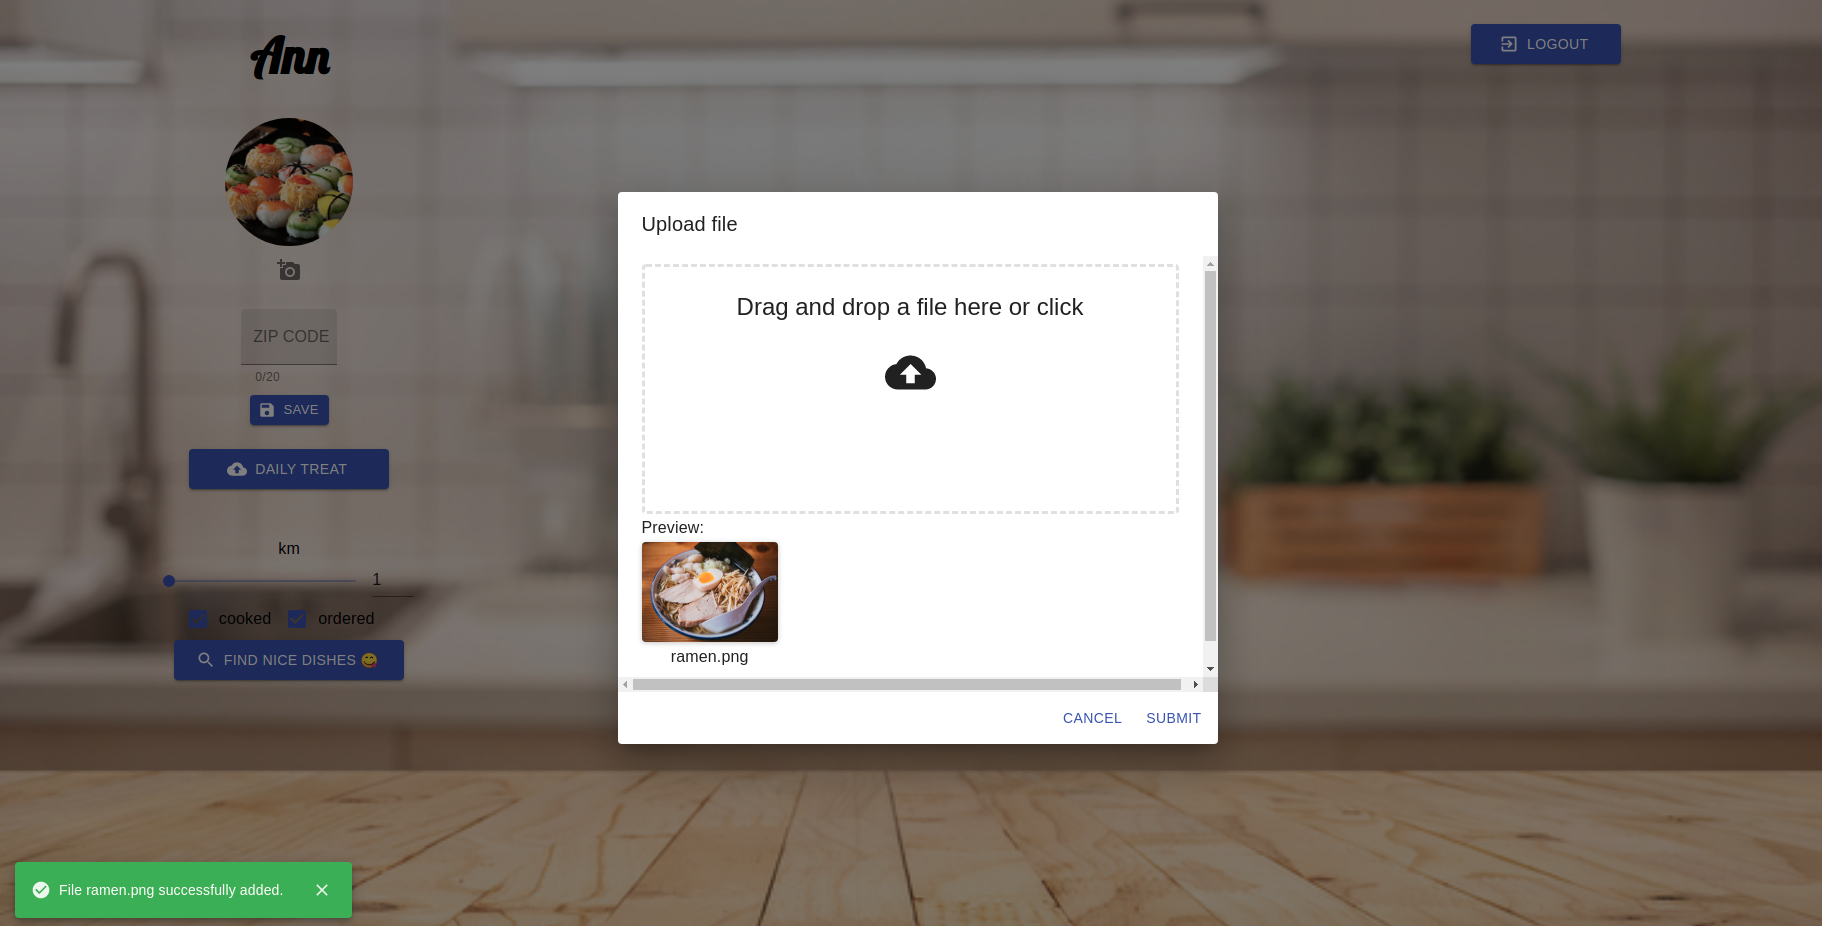
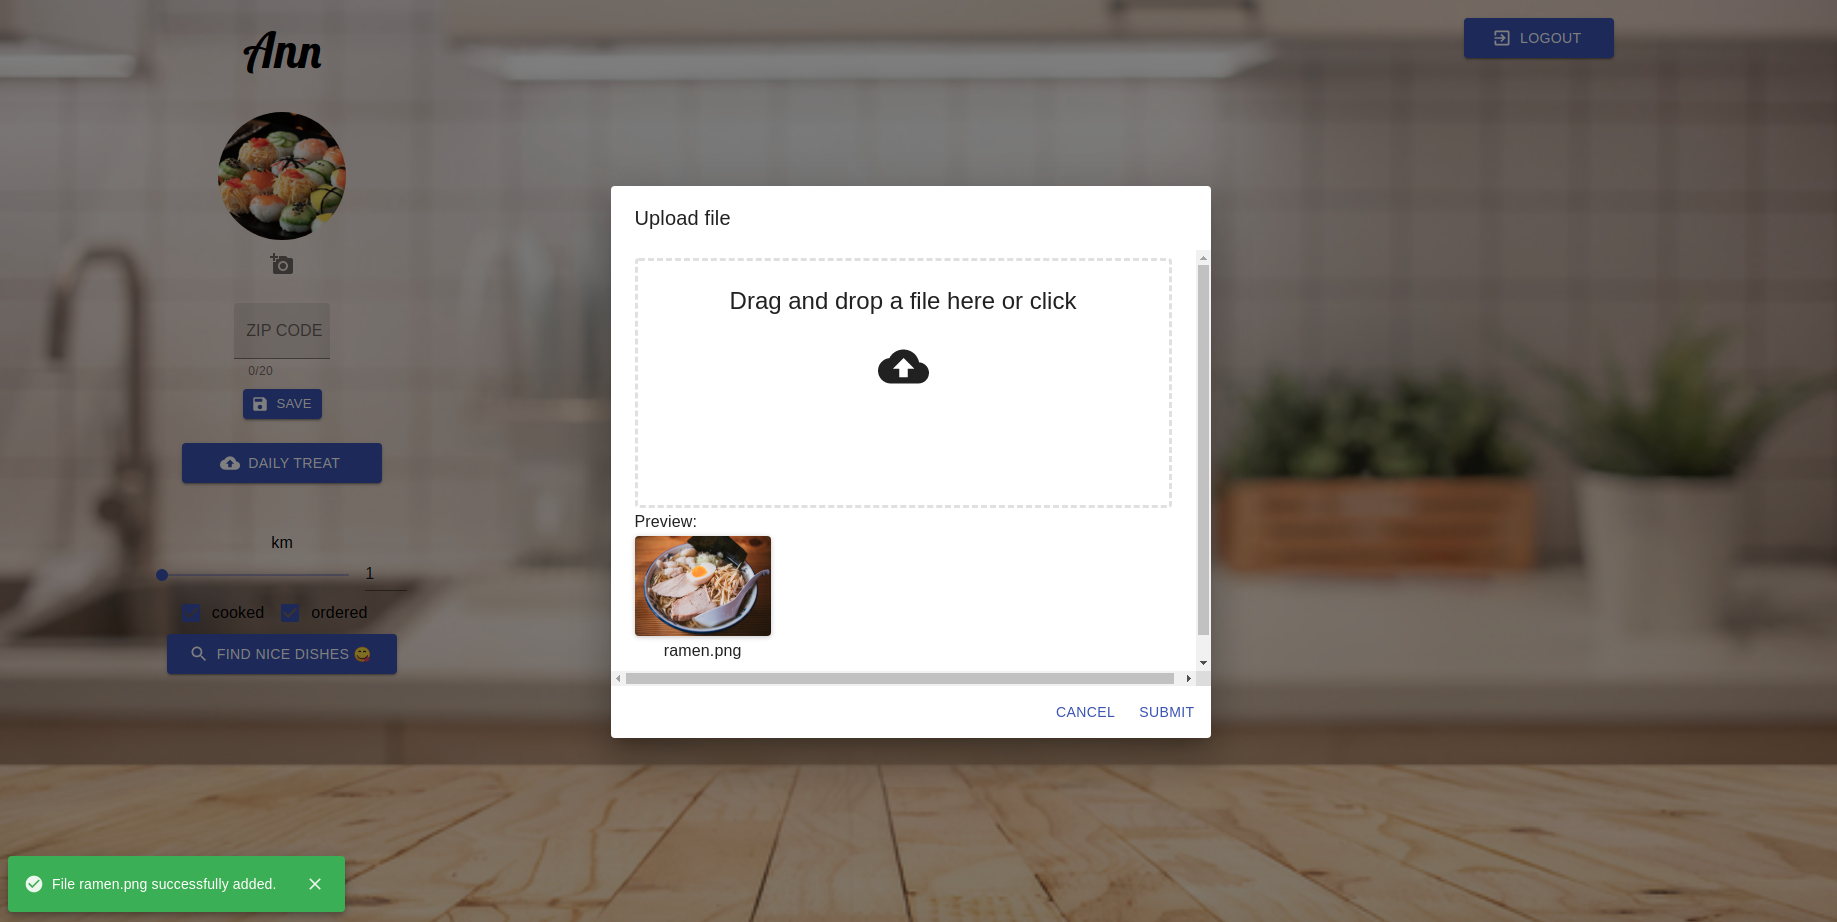
docs: add new images with new font size, changed border radius in image

diff --git a/client/src/components/Profile/Profile.jsx b/client/src/components/Profile/Profile.jsx
@@ -297,7 +297,7 @@ function Profile () {
             { imagePath.length > 0 ?
               <Image
                 src={imagePath}
-                imageStyle={{"borderRadius": "12.5%"}} // 500 to 300 proportion => 5/8, 3/8 => 80 % / (5/8) => x => x * (3/8)
+                imageStyle={{"borderRadius": "2.5%"}}
                 style={{"backgroundColor": "inherit", "marginTop": "17.5%","padding": "150px"}}
               />
             : ''}
@@ -436,7 +436,7 @@ function Profile () {
           <Grid item sm={12} xs={12}>
             <Image
               src={imagePath}
-              imageStyle={{ width:"72.5%", height:"100%", "borderRadius": "5%"}}
+              imageStyle={{ width:"72.5%", height:"100%", "borderRadius": "2.5%"}}
               style={{"backgroundColor": "inherit", "marginTop": "0%", "marginLeft": "22%", "padding": "150px"}}
             />
           </Grid>
